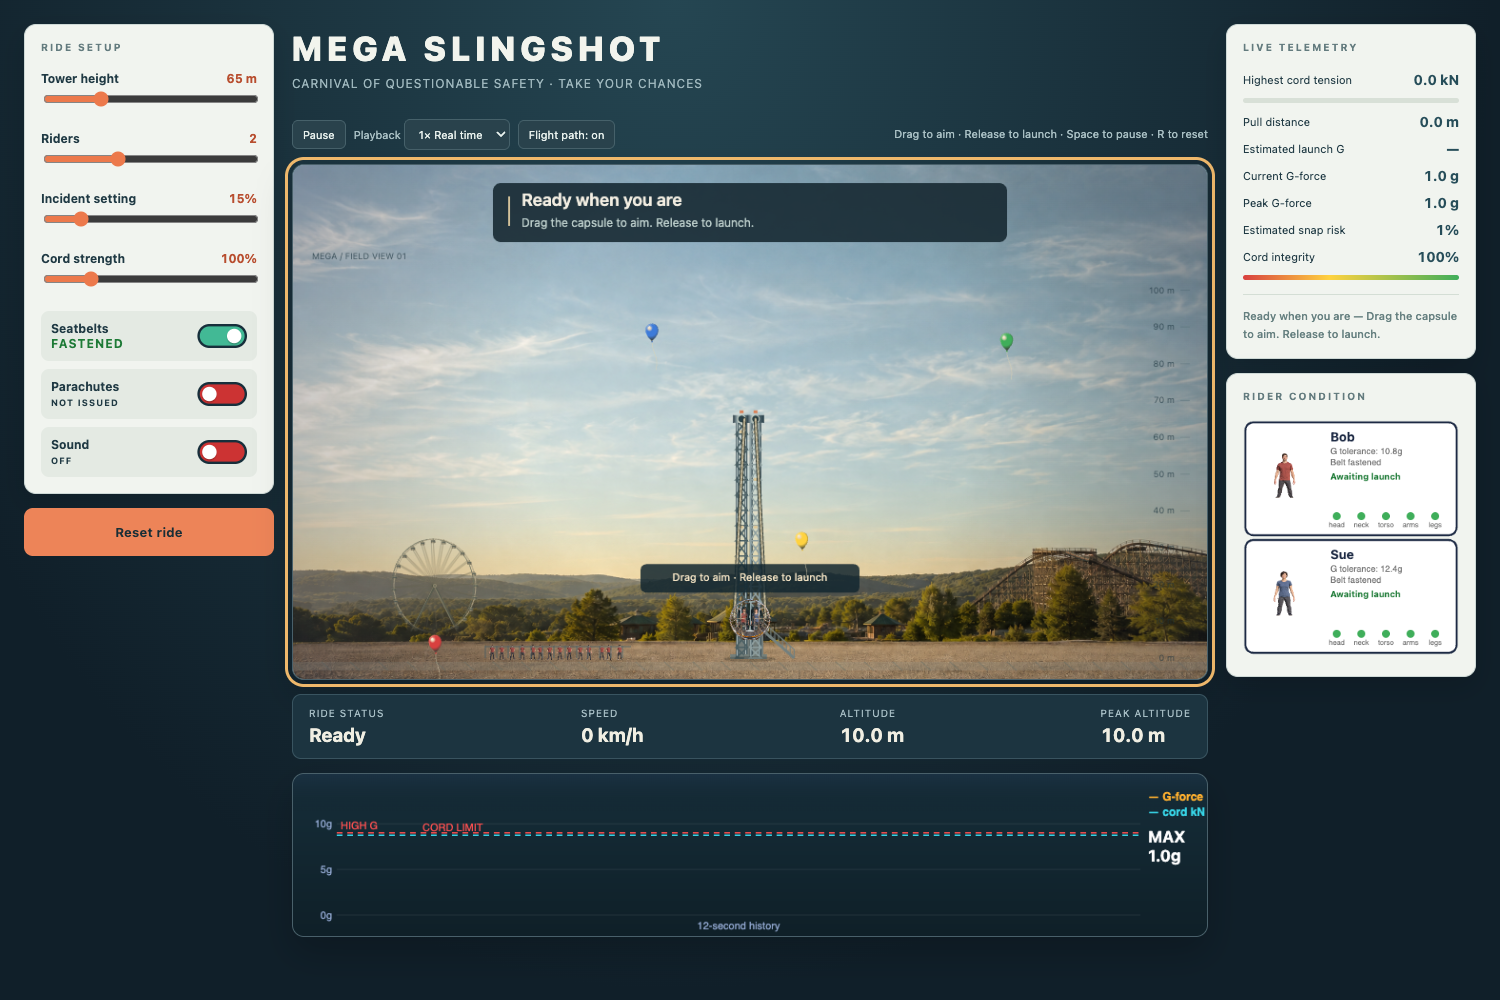
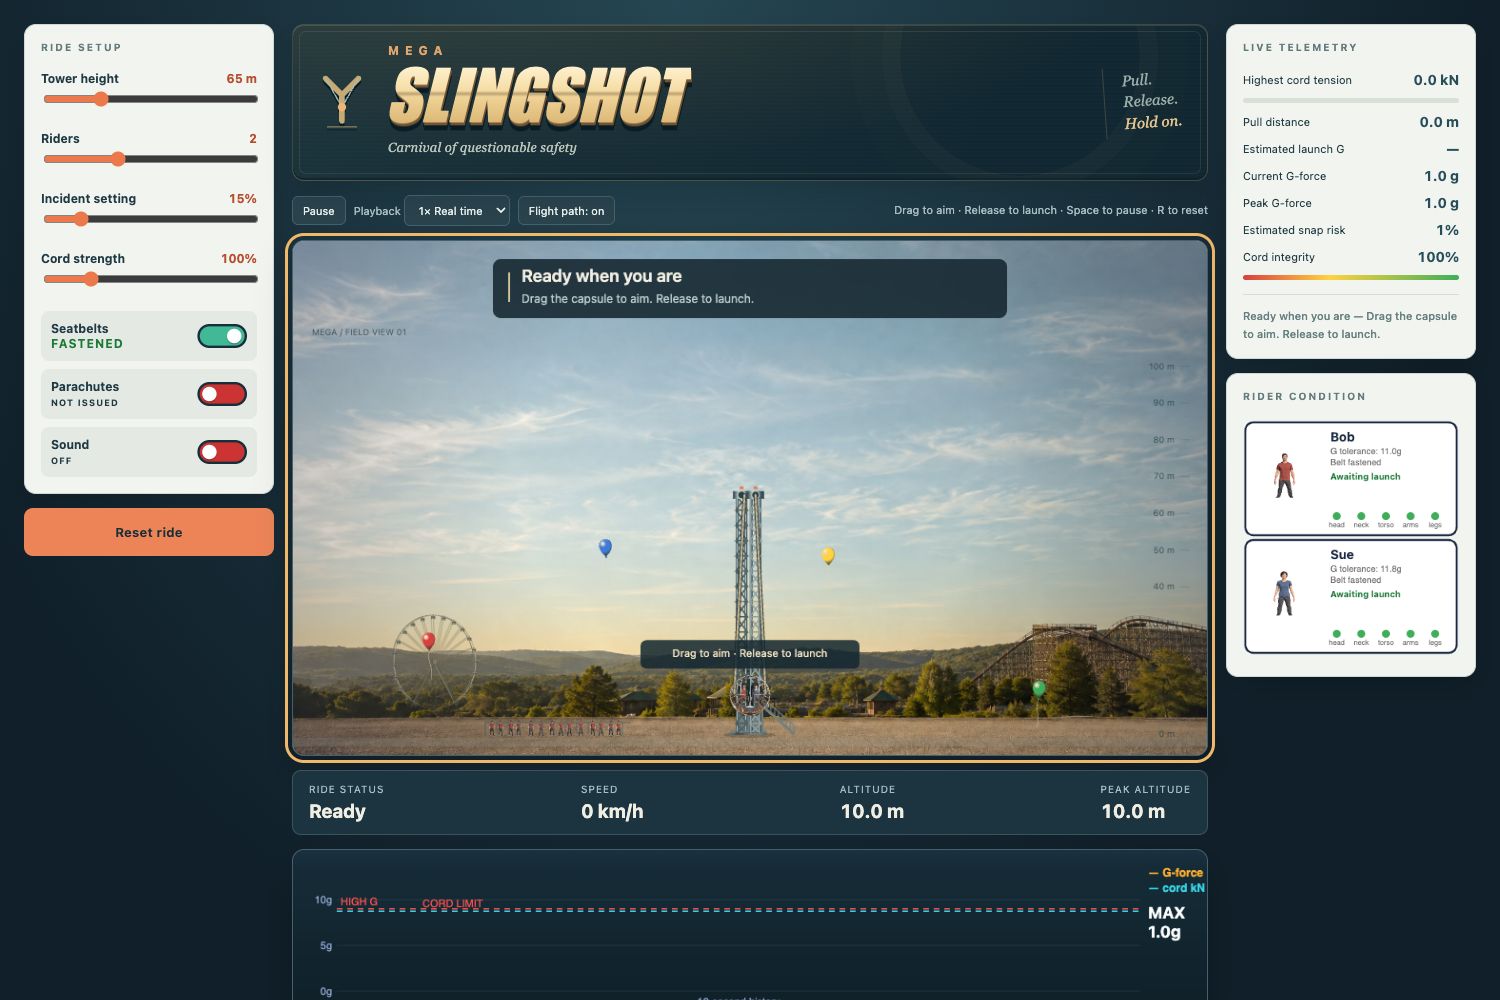
Redesign title, stabilize camera and animate parachute fabric

diff --git a/game.js b/game.js
@@ -192,7 +192,7 @@ function computeView(){
   const Heff=Math.max(H,55);   // fixed zoom below 55 m → taller towers really LOOK taller
   // constant 68 m of sky above the tower (not proportional!) so the tower keeps growing on screen
   const wx0=-(0.74*Heff+14), wx1=0.74*Heff+14, top=Heff+68;
-  const s = Math.min(cw/(wx1-wx0), (ch-26)/top, S.flightScale||Infinity);
+  const s = Math.min(cw/(wx1-wx0), (ch-26)/top);
   const ox = cw/2 - s*(wx0+wx1)/2;
   const oy = ch - 22;
   VIEW={s,ox,oy};
@@ -431,11 +431,6 @@ function physStep(dt){
 
 function tick(dt){
   const podX0=S.pod.x, podY0=S.pod.y;   // pod path start (for collision interpolation)
-  if(S.phase==='flying'||S.phase==='awaitBodies'){
-    const tracked=[S.pod,...S.riders.filter(r=>r.mode==='flying')];
-    const extent=Math.max(1,...tracked.map(p=>Math.abs(p.x)+12)), altitude=Math.max(1,...tracked.map(p=>p.y+18));
-    S.flightScale=Math.min(S.flightScale||Infinity,(SW/2-24)/extent,(SH-105)/altitude);
-  }
   computeView();
   S.t+=dt; S.ferris+=dt*0.25; S.bannerT+=dt;
   S.shake=Math.max(0,S.shake-dt*22);
@@ -1568,7 +1563,7 @@ function drawTowersAndCords(c){
 
 function drawBoarders(c){for(const r of S.riders)if(r.mode==='boarding')drawPerson(c,W2SX(r.x),W2SY(r.y)-8,3.5,r,0);}
 function drawFlyingRiders(c){for(const r of S.riders){if(!['flying','landed'].includes(r.mode))continue;const X=W2SX(r.x),Y=W2SY(r.y),sz=5;
-  if(r.chuteOpen||r.chuteLanded){const width=22*(r.chuteLanded?.6:Math.max(.2,r.chuteInflation||.2));c.strokeStyle='#d6d4bb';c.lineWidth=.7;for(let j=-1;j<=1;j+=.5){c.beginPath();c.moveTo(X+j*width,Y-32);c.lineTo(X,Y);c.stroke();}const g=c.createLinearGradient(X-width,Y-47,X+width,Y-30);g.addColorStop(0,'#b8b1a0');g.addColorStop(.5,'#efe0bb');g.addColorStop(1,'#92705a');c.fillStyle=g;c.beginPath();c.ellipse(X,Y-32,width,15,0,Math.PI,TAU);c.fill();}
+  if(r.chuteOpen||r.chuteLanded)drawParachute(c,X,Y,r);
   c.save();c.translate(X,Y);c.rotate(-r.rot);drawPerson(c,0,-3,sz,r,r.mode==='flying'?1:0);c.restore();
 }}
 function drawTrail(c){if(S.trail.length<2)return;c.strokeStyle='rgba(233,235,214,.2)';c.lineWidth=1;c.beginPath();S.trail.forEach((p,i)=>i?c.lineTo(W2SX(p.x),W2SY(p.y)):c.moveTo(W2SX(p.x),W2SY(p.y)));c.stroke();}
@@ -2006,6 +2001,52 @@ function drawRealisticBalloon(c,b,time=S.t){
   c.fillStyle='rgba(247,249,232,.6)';c.beginPath();c.ellipse(-2.8,-5,.65,1.45,.5,0,TAU);c.fill();c.restore();
   c.fillStyle=b.c;c.beginPath();c.moveTo(0,9);c.lineTo(-1.2,11);c.quadraticCurveTo(0,11.5,1.2,11);c.closePath();c.fill();
   c.strokeStyle='rgba(73,55,40,.55)';c.lineWidth=.5;c.beginPath();c.moveTo(-.6,9.8);c.lineTo(.6,9.8);c.stroke();c.restore();
+}
+
+function drawParachute(c,X,Y,r){
+  const phase=(r.seat||0)*1.7,time=S.t;
+  const wind=Math.sin(time*1.2+phase)*.8+Math.sin(time*2.9+phase)*.22;
+  const inflation=r.chuteLanded?0:clamp(r.chuteInflation||.05,.05,1);
+  c.save();
+  if(r.chuteLanded){
+    // Slack nylon pools beside the rider. Small ripples move, but it no longer floats.
+    const gy=W2SY(.1);c.translate(X+12,gy);
+    for(let i=0;i<9;i++){
+      const x=-17+i*4,y=-1.5-Math.sin(i*1.9+phase)*1.4;
+      c.fillStyle=surfaceGradient(c,0,y-3,0,2,[[0,i===2||i===6?'#b4774f':'#d4c9ac'],[1,'#777664']]);
+      c.beginPath();c.moveTo(x,1);c.quadraticCurveTo(x+1,y-2+wind*.3,x+3,y);c.lineTo(x+6,1.3);c.closePath();c.fill();
+    }
+    c.strokeStyle='rgba(187,181,151,.5)';c.lineWidth=.4;
+    for(let i=0;i<4;i++){c.beginPath();c.moveTo(-12+i*4,0);c.quadraticCurveTo(-19,-1+i,-24+i*2,0);c.stroke();}
+    c.restore();return;
+  }
+  // A pressurized nine-cell wing banks gently while the load remains below it.
+  const width=23*(.18+.82*inflation),height=11*(.3+.7*inflation);
+  const tilt=clamp((r.vx||0)*.012,-.18,.18)+wind*.035;
+  const centerX=X+wind*1.1,centerY=Y-19-15*inflation;
+  const top=x=>-height*Math.sqrt(Math.max(0,1-(x/width)**2));
+  const edge=x=>2.3+2.1*(x/width)**2+Math.sin(time*6+x*.45+phase)*(.25+.25*(1-inflation));
+  const world=(x,y)=>[centerX+x*Math.cos(tilt)-y*Math.sin(tilt),centerY+x*Math.sin(tilt)+y*Math.cos(tilt)];
+  c.lineWidth=.45;c.strokeStyle='rgba(230,222,192,.75)';
+  for(let i=0;i<=8;i++){
+    const x=lerp(-width,width,i/8),[ax,ay]=world(x,edge(x));
+    c.beginPath();c.moveTo(ax,ay);c.lineTo(X+(i<4?-2.5:2.5),Y-3);c.stroke();
+  }
+  c.translate(centerX,centerY);c.rotate(tilt);
+  for(let i=0;i<9;i++){
+    const x0=lerp(-width,width,i/9),x1=lerp(-width,width,(i+1)/9),mid=(x0+x1)/2;
+    const panel=surfaceGradient(c,x0,0,x1,0,[[0,'#9b927b'],[.25,i===2||i===6?'#d5a06c':'#f0e4c6'],[.65,i===2||i===6?'#b97e50':'#d7cbb0'],[1,'#a39c85']]);
+    c.fillStyle=panel;c.beginPath();c.moveTo(x0,edge(x0));c.lineTo(x0,top(x0));
+    c.quadraticCurveTo(mid,top(mid)-.7,x1,top(x1));c.lineTo(x1,edge(x1));
+    c.quadraticCurveTo(mid,edge(mid)+.45,x0,edge(x0));c.closePath();c.fill();
+    // Dark lower air cells and reinforced vertical seams give the canopy volume.
+    c.fillStyle='rgba(74,72,58,.38)';c.beginPath();c.ellipse(mid,edge(mid)-.15,Math.max(.15,(x1-x0)*.34),.9*inflation,0,0,TAU);c.fill();
+    c.strokeStyle='rgba(91,88,70,.42)';c.lineWidth=.4;c.beginPath();c.moveTo(x0,top(x0));c.lineTo(x0,edge(x0));c.stroke();
+    c.strokeStyle='rgba(255,244,212,.55)';c.lineWidth=.45;c.beginPath();c.moveTo(x0,top(x0));c.quadraticCurveTo(mid,top(mid)-.7,x1,top(x1));c.stroke();
+  }
+  c.strokeStyle='#beb396';c.lineWidth=.65;c.beginPath();
+  for(let i=0;i<=30;i++){const x=lerp(-width,width,i/30);i?c.lineTo(x,edge(x)):c.moveTo(x,edge(x));}c.stroke();
+  c.restore();
 }
 
 /* ============================ MAIN LOOP ============================ */

diff --git a/style.css b/style.css
@@ -89,3 +89,32 @@
 .box h2{text-transform:uppercase}
 #statusLine{font-weight:500;line-height:1.6;text-align:left;border-top:1px solid #d4ded5;padding-top:12px}
 .toolbar .help{line-height:1.5}
+
+/* A dimensional midway sign: warm enamel lettering on a brushed dark panel. */
+#titleBar{
+  position:relative;isolation:isolate;container-type:inline-size;
+  display:flex;align-items:center;gap:20px;overflow:hidden;
+  padding:20px 26px 23px;border:1px solid #a28d634f;border-radius:12px;
+  background:radial-gradient(ellipse at 28% -40%,#b48c4930,transparent 65%),
+    repeating-linear-gradient(0deg,#ffffff02 0 1px,transparent 1px 4px),
+    linear-gradient(115deg,#1c343c,#112731 75%);
+  box-shadow:inset 0 1px 0 #f0d5a426,inset 0 -2px 0 #081a2380,0 12px 24px #07171e30;
+}
+#titleBar:before{content:"";position:absolute;inset:6px;border:1px solid #cab78b20;border-radius:7px;pointer-events:none;z-index:-1}
+#titleBar:after{content:"";position:absolute;right:66px;top:-90px;width:240px;height:240px;border:1px solid #dcc3940c;border-radius:50%;box-shadow:0 0 0 17px #dcc39405,0 0 0 48px #dcc39403;z-index:-1}
+.brandEmblem{width:46px;flex:none;color:#c5aa76;filter:drop-shadow(0 3px 0 #071b23)}
+.brandEmblem svg{display:block;width:100%;height:auto}
+.brandWords{min-width:0}
+#titleBar h1{display:flex;flex-direction:column;align-items:flex-start;margin:0;font-weight:900;line-height:.91;letter-spacing:0;text-shadow:none}
+.brandMega{font-family:system-ui,sans-serif;font-size:12px;line-height:1;letter-spacing:.5em;color:#e0a66b;margin:0 0 7px 3px;font-weight:750}
+.brandSlingshot{display:block;padding-right:.1em;font-family:Impact,"Arial Narrow","Helvetica Neue",sans-serif;font-stretch:condensed;font-size:clamp(36px,9cqw,68px);font-style:italic;font-weight:900;letter-spacing:.005em;color:#f4dfaf;
+  background:linear-gradient(180deg,#fff3d2 0%,#f5dca4 43%,#bda474 48%,#f0d397 53%,#d9b573 100%);
+  -webkit-background-clip:text;background-clip:text;-webkit-text-fill-color:transparent;
+  filter:drop-shadow(0 1px 0 #fff0bf50) drop-shadow(1px 3px 0 #745331) drop-shadow(0 5px 0 #071c25);
+}
+#titleBar .tag{margin:13px 0 0 3px;font-family:Georgia,"Times New Roman",serif;font-style:italic;font-size:13px;line-height:1.4;letter-spacing:.25px;color:#bac4b9;text-shadow:none}
+.brandMotto{margin-left:auto;padding:5px 0 5px 18px;border-left:1px solid #c5ac783b;display:flex;flex-direction:column;gap:4px;flex:none;transform:rotate(-4deg)}
+.brandMotto span,.brandMotto strong{font-family:Georgia,serif;font-style:italic;font-size:15px;font-weight:400;line-height:1.15;color:#9aaea9}
+.brandMotto strong{color:#e3c38e}
+@media(max-width:1250px) and (min-width:1101px){.brandMotto{display:none}}
+@media(max-width:600px){#titleBar{gap:13px;padding:19px 18px 21px}.brandEmblem{width:31px}.brandMotto{display:none}.brandMega{font-size:10px;letter-spacing:.4em}#titleBar .tag{font-size:11px;margin-top:11px}.brandSlingshot{font-size:clamp(34px,11cqw,54px)}}

diff --git a/index.html b/index.html
@@ -29,10 +29,16 @@
     <button id="resetBtn">Reset ride</button>
   </div>
   <div id="gameCol">
-    <div id="titleBar">
-      <h1>MEGA SLINGSHOT</h1>
-      <span class="tag">CARNIVAL OF QUESTIONABLE SAFETY · TAKE YOUR CHANCES</span>
-    </div>
+    <header id="titleBar">
+      <div class="brandEmblem" aria-hidden="true">
+        <svg viewBox="0 0 56 72" fill="none"><path d="M8 9 28 29 48 9M28 29v32" stroke="currentColor" stroke-width="7" stroke-linecap="round"/><path d="m8 9 20 35L48 9" stroke="#aabbb5" stroke-width="1.5"/><circle cx="28" cy="44" r="5" fill="#efb574"/><path d="M10 68h36" stroke="currentColor" stroke-width="1"/></svg>
+      </div>
+      <div class="brandWords">
+        <h1><span class="brandMega">MEGA</span><span class="brandSlingshot">SLINGSHOT</span></h1>
+        <span class="tag">Carnival of questionable safety</span>
+      </div>
+      <div class="brandMotto" aria-hidden="true"><span>Pull.</span><span>Release.</span><strong>Hold on.</strong></div>
+    </header>
     <div class="toolbar"><button id="pauseBtn" type="button">Pause</button><label>Playback <select id="speedSl"><option value="0.5">0.5× Slow</option><option value="1" selected>1× Real time</option><option value="3">3× Arcade</option></select></label><button id="previewBtn" aria-pressed="true">Flight path: on</button><span class="help">Drag to aim · Release to launch · Space to pause · R to reset</span></div>
     <canvas id="scene" width="960" height="540" tabindex="0" aria-label="Slingshot ride. Drag the pod to aim and release to launch. Use arrow keys to aim and Enter to launch."></canvas>
     <div id="flightHud"><span>RIDE STATUS<b id="phaseRead">BOARDING</b></span><span>SPEED<b id="speedRead">0 km/h</b></span><span>ALTITUDE<b id="altRead">10 m</b></span><span>PEAK ALTITUDE<b id="peakRead">10 m</b></span></div>

diff --git a/README.md b/README.md
@@ -18,6 +18,9 @@ Alternatively run `python3 -m http.server 8080` in this folder and open http://l
 
 Latest visual pass:
 
+- Dimensional enamel-style title lettering, a slingshot emblem, and a framed midway sign treatment that adapts to mobile.
+- Nine-cell parachutes inflate progressively, bank in the wind, and ripple along the trailing edge. Suspension lines stay connected to the rider, and landed canopies collapse onto the ground.
+
 - Polished setup labels, action prompts, incident warnings, rider reports, and results. Event chips are capped and deduplicated to reduce visual noise; ride status changes are announced politely to screen readers.
 
 - A 24-cabin Ferris wheel turns once every 110 simulation seconds; cabins remain upright, support legs stay fixed, and the base is partially hidden by trees.
@@ -36,7 +39,7 @@ Latest visual pass:
 - Tension-only elastic cords with velocity-dependent damping and mild strain hardening. Slack cords cannot push the capsule.
 - Ground restitution, friction impulses, and a low-speed rest threshold reduce endless micro-bounces.
 - Rider/pod collision impulses conserve linear momentum using actual masses. Collision radii no longer depend on visual enlargement of the capsule.
-- Ejected riders inherit current pod velocity; pod mass decreases when a rider leaves. The camera expands to accommodate distant trajectories instead of artificially capping ejection velocity.
+- Ejected riders inherit current pod velocity; pod mass decreases when a rider leaves. The camera stays at its setup scale throughout the ride, preventing the foreground from shrinking against a fixed background. Extreme trajectories can leave the viewport; telemetry continues to track the capsule.
 - Parachutes inflate over 0.85 seconds and apply quadratic drag toward a roughly 5.5 m/s descent, replacing the old 15 m/s speed limiter.
 - New live speed, altitude, peak altitude, pause, playback speed, aiming preview, keyboard controls, and responsive layout.
 - Pointer cancellation safely resets the pull. Configuration controls are disabled during a ride, including for keyboard input.
